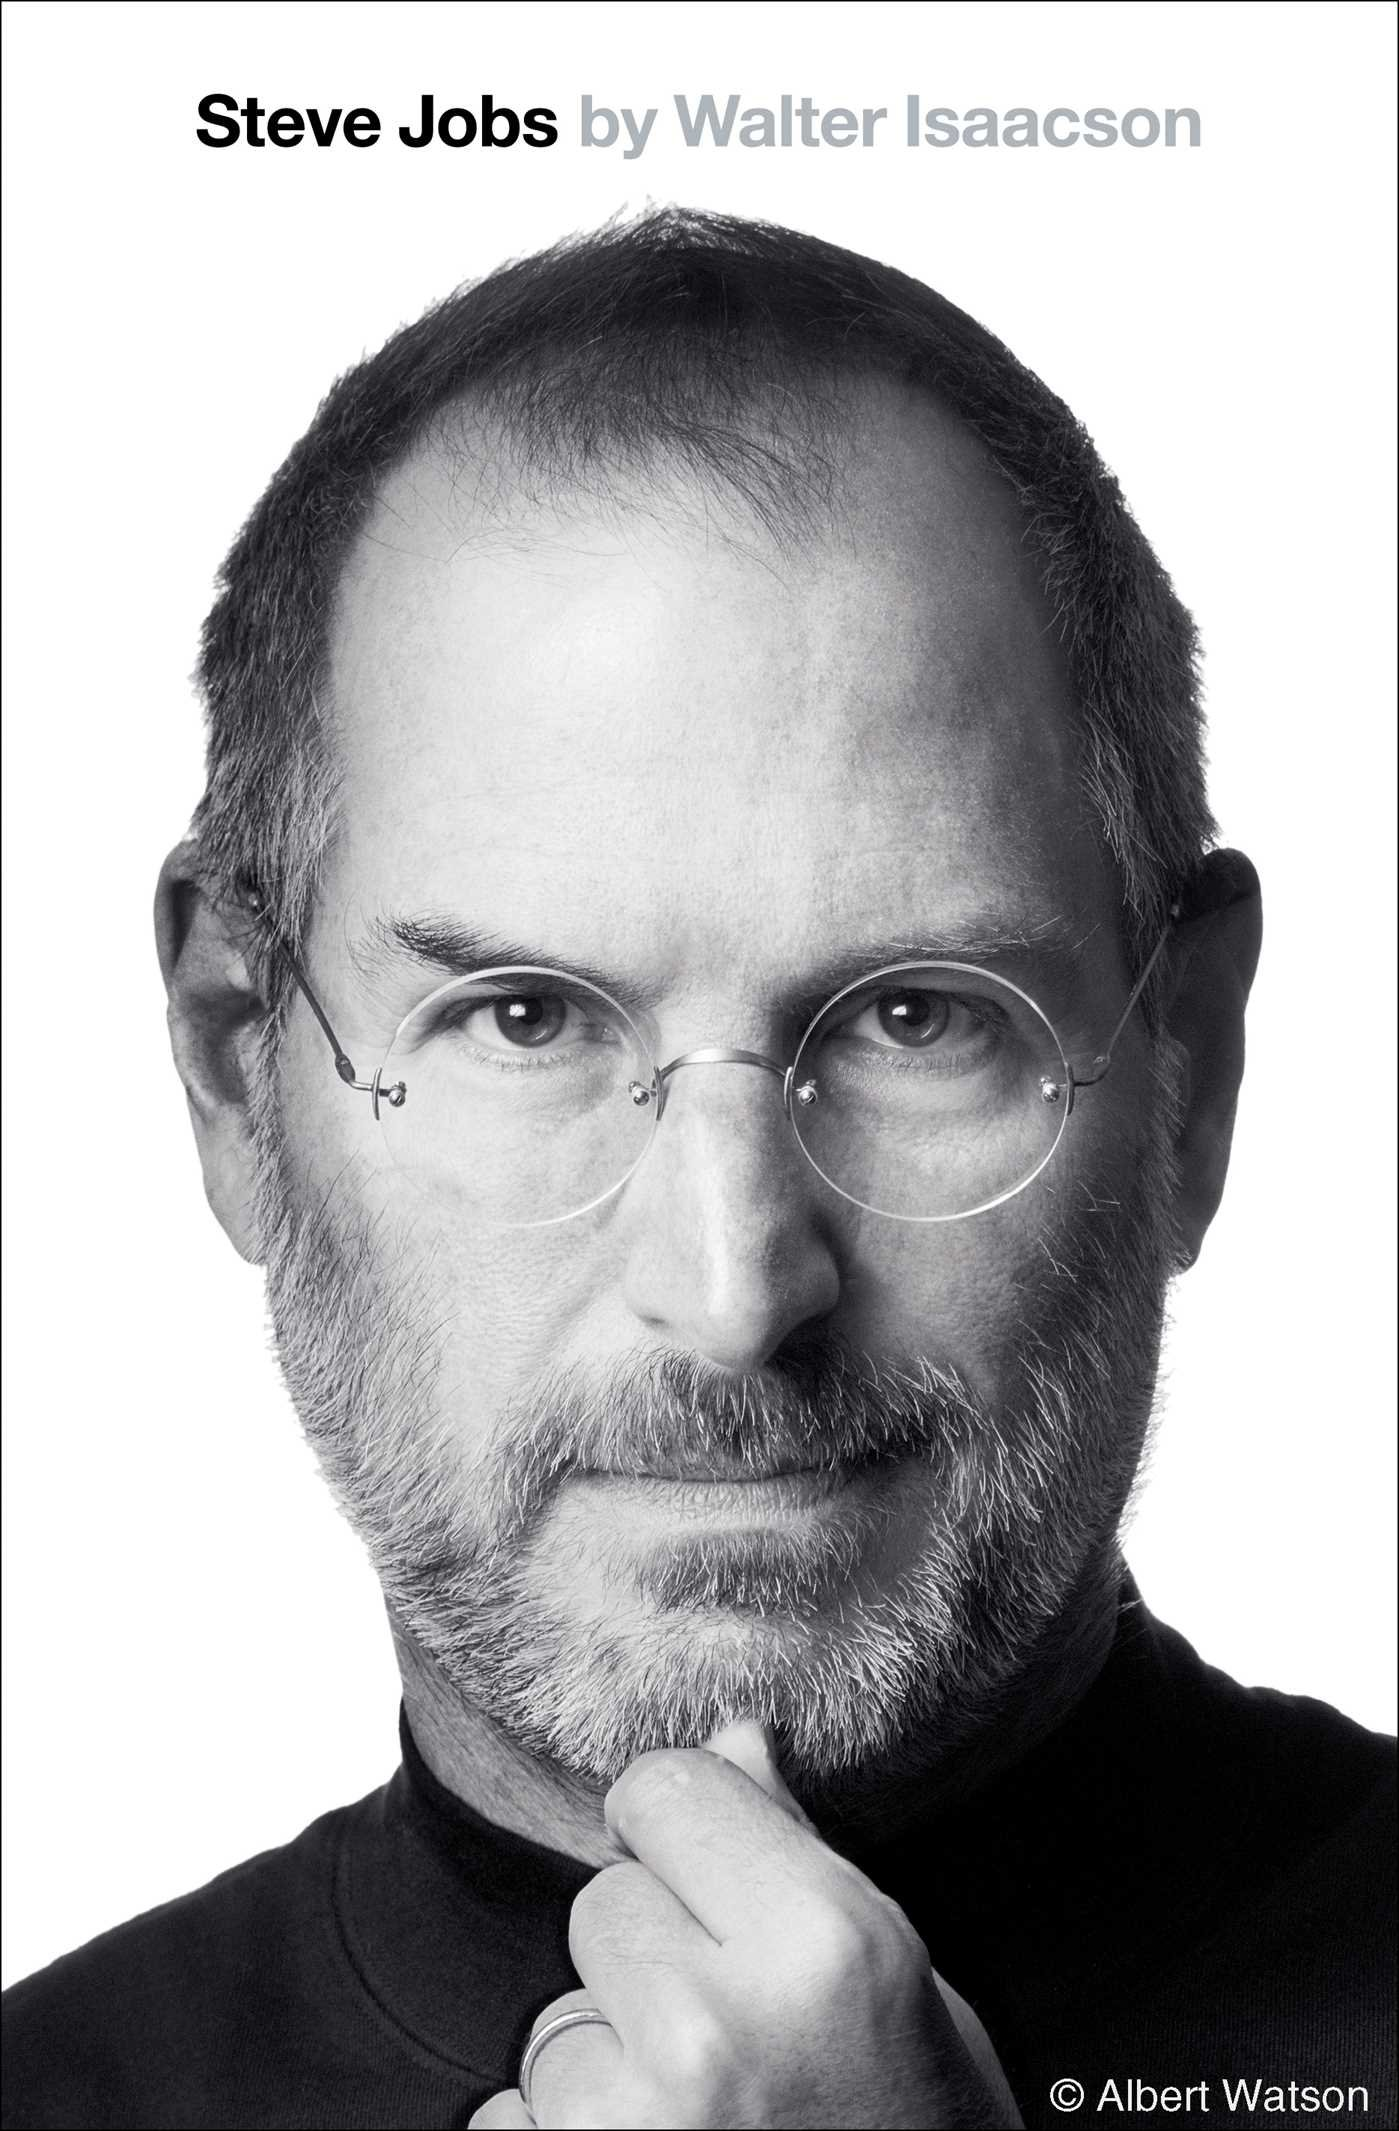
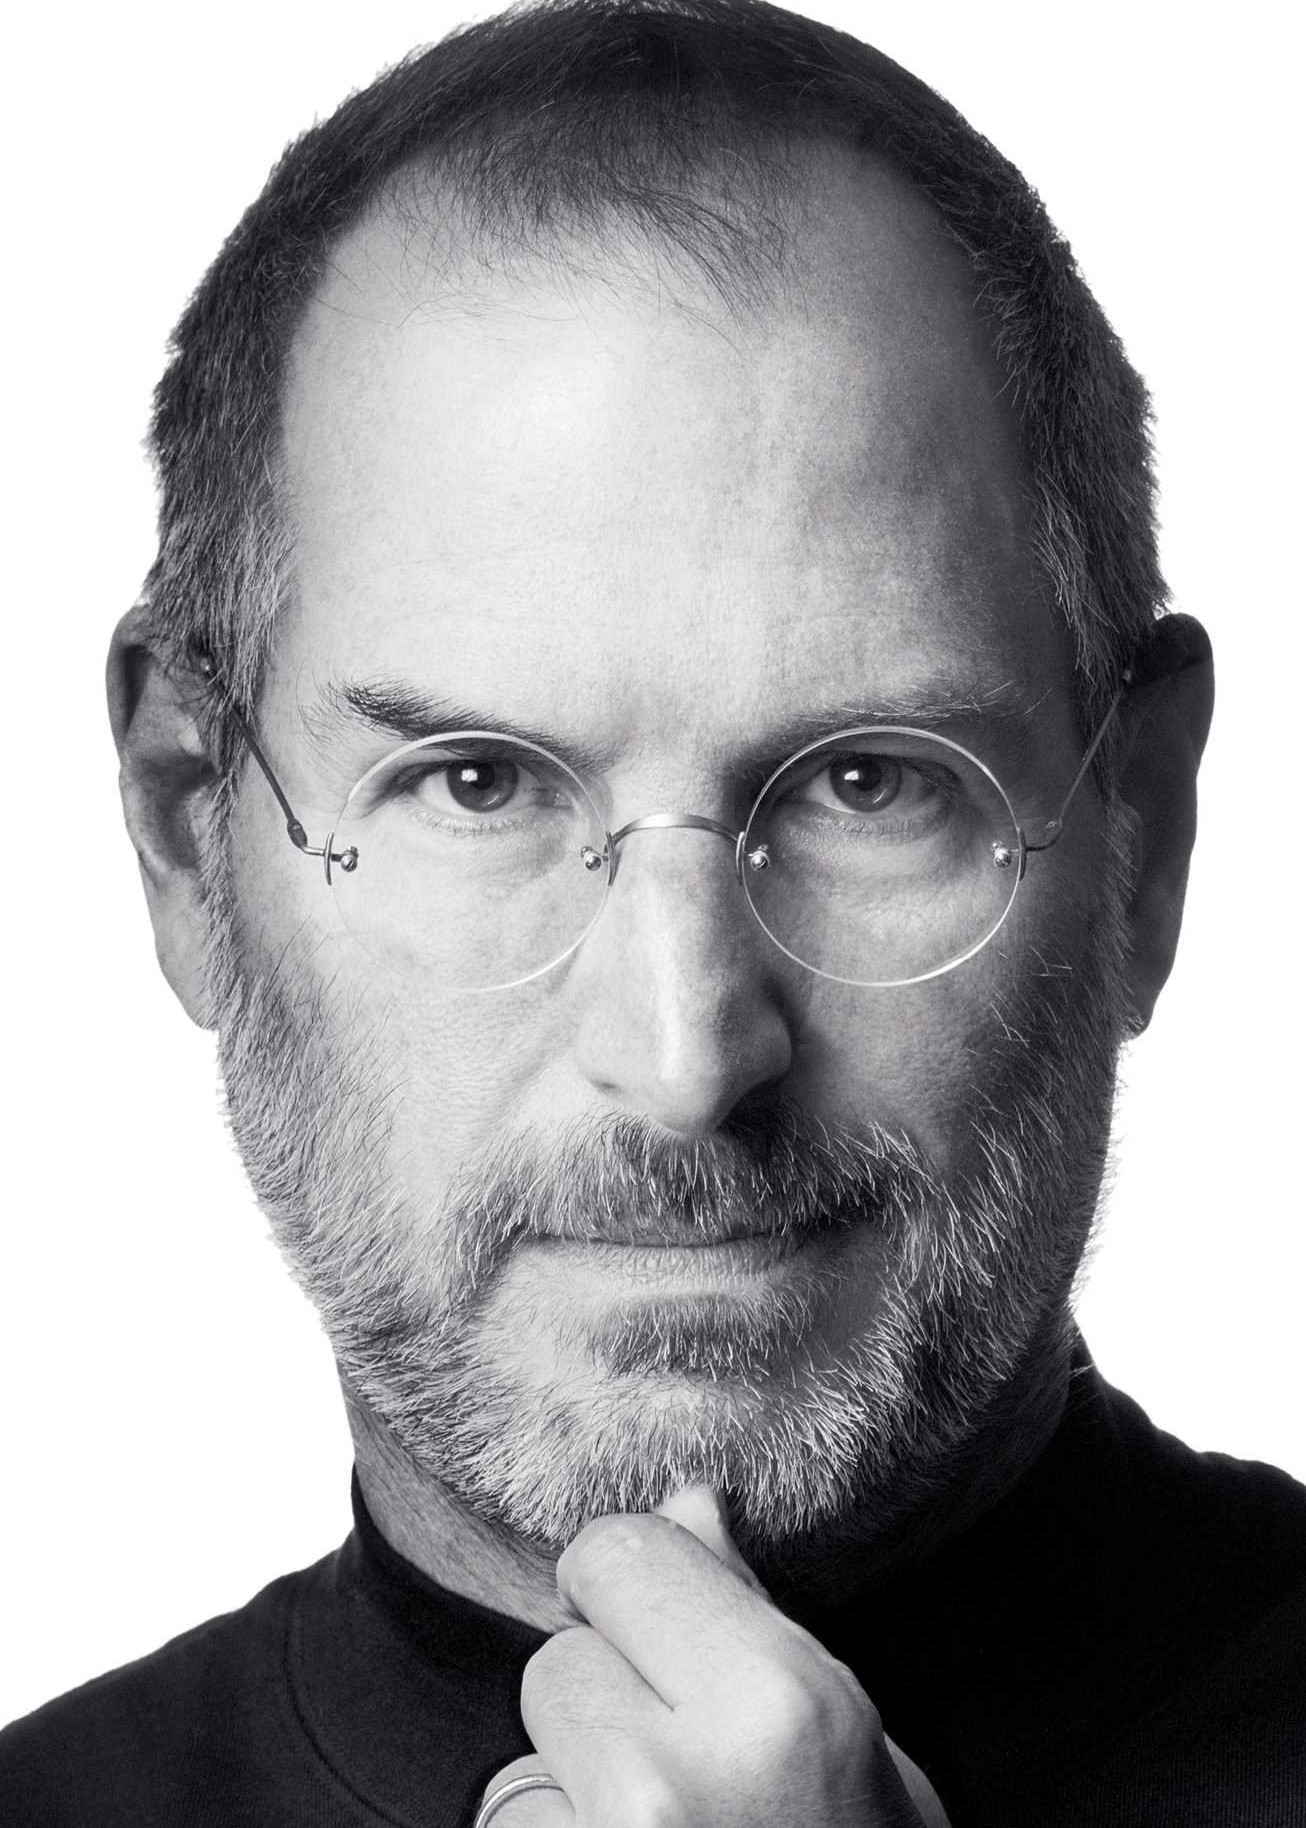
hasn't finished index2.html

diff --git a/index.html b/index.html
@@ -5,13 +5,12 @@
         <link rel="stylesheet" href="index.css">
         <link rel="stylesheet" href="https://stackpath.bootstrapcdn.com/bootstrap/4.4.1/css/bootstrap.min.css"
             integrity="sha384-Vkoo8x4CGsO3+Hhxv8T/Q5PaXtkKtu6ug5TOeNV6gBiFeWPGFN9MuhOf23Q9Ifjh" crossorigin="anonymous">
-
     </head>
     <body style="margin: 10px; margin-left: 10px; margin-right: 10px;">
         <div>   
-            <h6 class="gotoOther"><a href="index2.html" class="link">Steve Jobs</a></h6>
-            <h6 class="gotoOther"><a href="index3.html" class="link">iPhone</a></h6>
-            <h6 class="gotoOther"><a href="index4.html" class="link">Mac</a></h6>
+            <a href="index2.html" class="gotoOther">Steve Jobs</a>
+            <a href="index3.html" class="gotoOther">iPhone</a>
+            <a href="index4.html" class="gotoOther">Mac</a>
         </div>
         <div id="intro">
             <span id="intro">

diff --git a/index2.html b/index2.html
@@ -3,15 +3,18 @@
     <head>
         <title>My Idol</title>
         <link rel="stylesheet" href="https://stackpath.bootstrapcdn.com/bootstrap/4.4.1/css/bootstrap.min.css" integrity="sha384-Vkoo8x4CGsO3+Hhxv8T/Q5PaXtkKtu6ug5TOeNV6gBiFeWPGFN9MuhOf23Q9Ifjh" crossorigin="anonymous">
-        <link rel="stylesheet" href="index2.css">
-        
+        <link rel="stylesheet" href="index2.css"> 
     </head>
     <body>
         <div>
-            <h2 style="text-align: center;">My idol is Steve Jobs</h2>
+            <a href="index.html" class="gotoOther">Home</a>
+            <a href="index3.html" class="gotoOther">iPhone</a>
+            <a href="index4.html" class="gotoOther">Mac</a>
         </div>
         <div>
-            <img src="assets/81VStYnDGrL.jpg" class="center">
+            <table>
+
+            </table>
         </div>
     </body>
 </html>

diff --git a/index2.css b/index2.css
@@ -1,6 +1,21 @@
-.center {
-    display: block;
-    margin-right: auto;
-    margin-left: auto;
-    width: 50%;
+body {
+    background-image: url(assets/81VStYnDGrL.jpg);
+    background-size: 500px;
+    background-repeat: no-repeat;
+    background-position: center center;
+    background-attachment: fixed;
+    background-position-y: 11rem;
+}
+.gotoOther {
+    font-family: 'Lucida Sans', 'Lucida Sans Regular', 'Lucida Grande', 'Lucida Sans Unicode', Geneva, Verdana, sans-serif;
+    font-size: 22px;
+    text-align: right;
+    float: right;
+    font-weight: normal;
+    padding: 15px;
+    color: black;
+}
+
+.gotoOther:hover {
+    color: royalblue;
 }

diff --git a/index.css b/index.css
@@ -6,15 +6,6 @@ body {
     background-size: 750px;
     background-position-y: 10rem;
 }
-#title {
-    font-size: 30px;
-    text-align: left;
-    float: left;
-    color: black;
-}
-#title hover {
-    color: royalblue;
-}
 .gotoOther {
     font-family: 'Lucida Sans', 'Lucida Sans Regular', 'Lucida Grande', 'Lucida Sans Unicode', Geneva, Verdana, sans-serif;
     font-size: 22px;
@@ -22,11 +13,10 @@ body {
     float: right;
     font-weight: normal;
     padding: 15px;
-}
-.link {
     color: black;
 }
-.link:hover {
+
+.gotoOther:hover {
     color: royalblue;
 }
 #intro span {

diff --git a/index3.html b/index3.html
@@ -1,7 +1,9 @@
 <!DOCTYPE html>
 <html>
     <head>
-        <title>My cats</title>
+        <title>iPhone</title>
+        <link rel="stylesheet" href="https://stackpath.bootstrapcdn.com/bootstrap/4.4.1/css/bootstrap.min.css"
+        integrity="sha384-Vkoo8x4CGsO3+Hhxv8T/Q5PaXtkKtu6ug5TOeNV6gBiFeWPGFN9MuhOf23Q9Ifjh" crossorigin="anonymous">
         <link rel="stylesheet" href="index3.css">
     </head>
     <body>

diff --git a/index4.html b/index4.html
@@ -1,7 +1,7 @@
 <!DOCTYPE html>
 <html>
     <head>
-        <title>My favorite NBA player</title>
+        <title>Mac</title>
     </head>
     <body>
         
